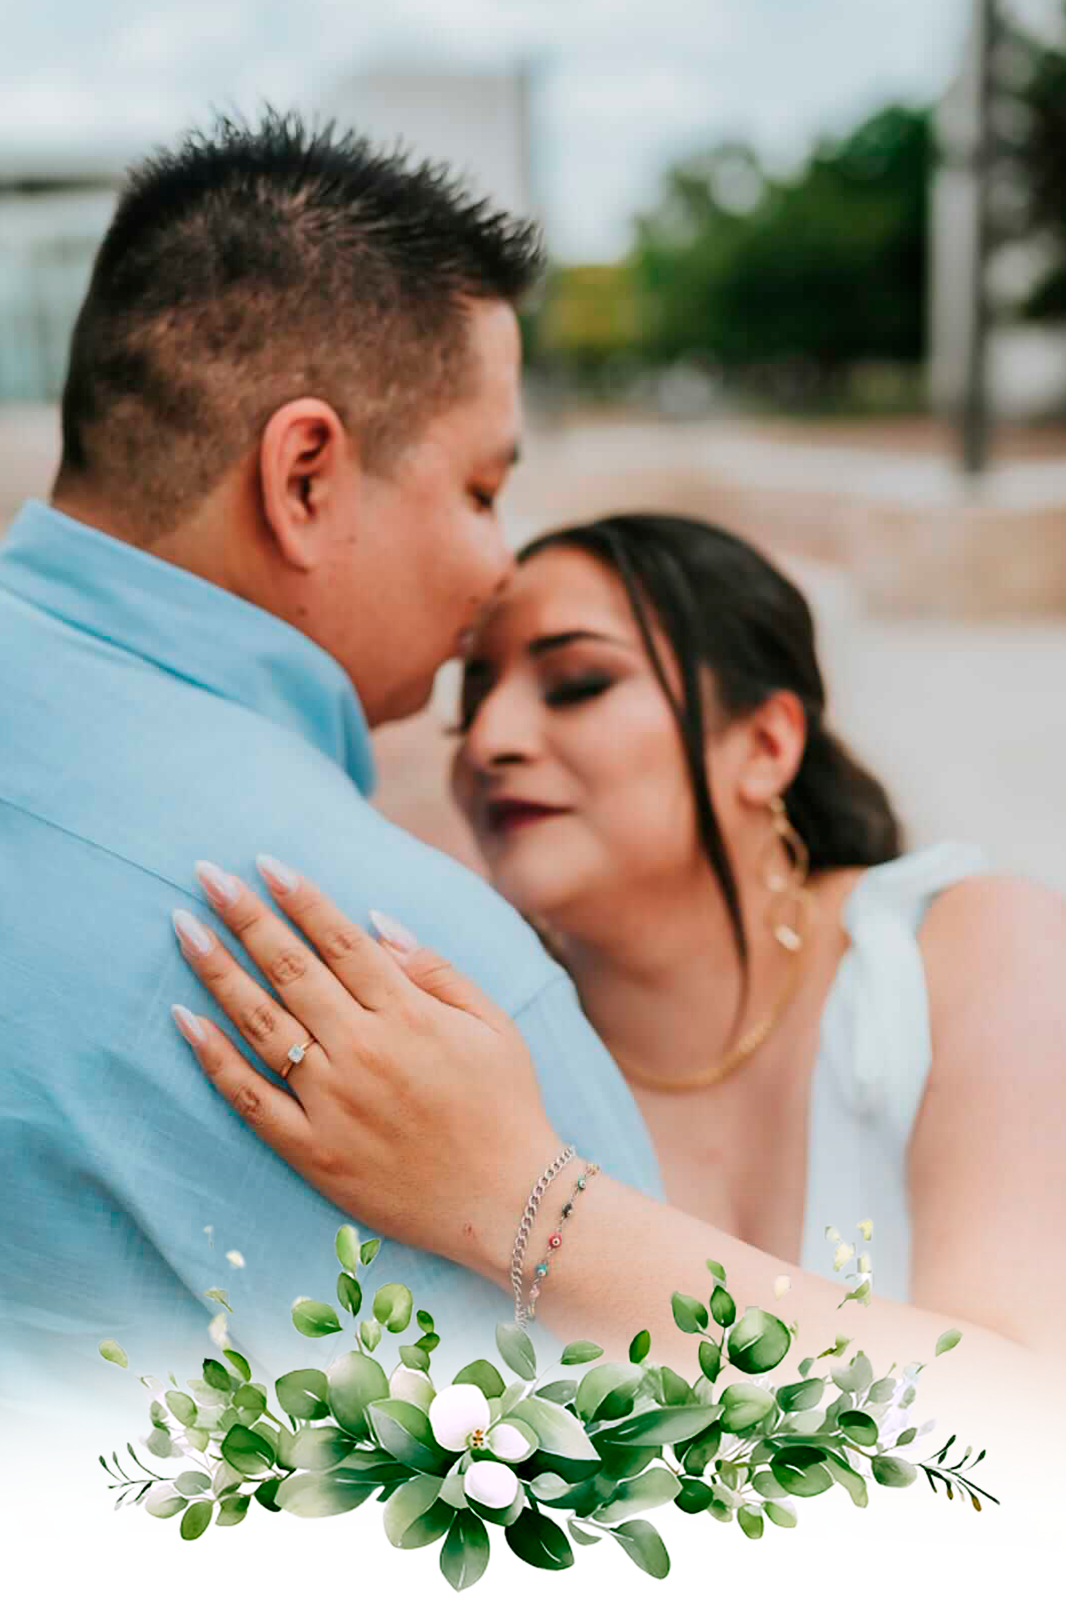
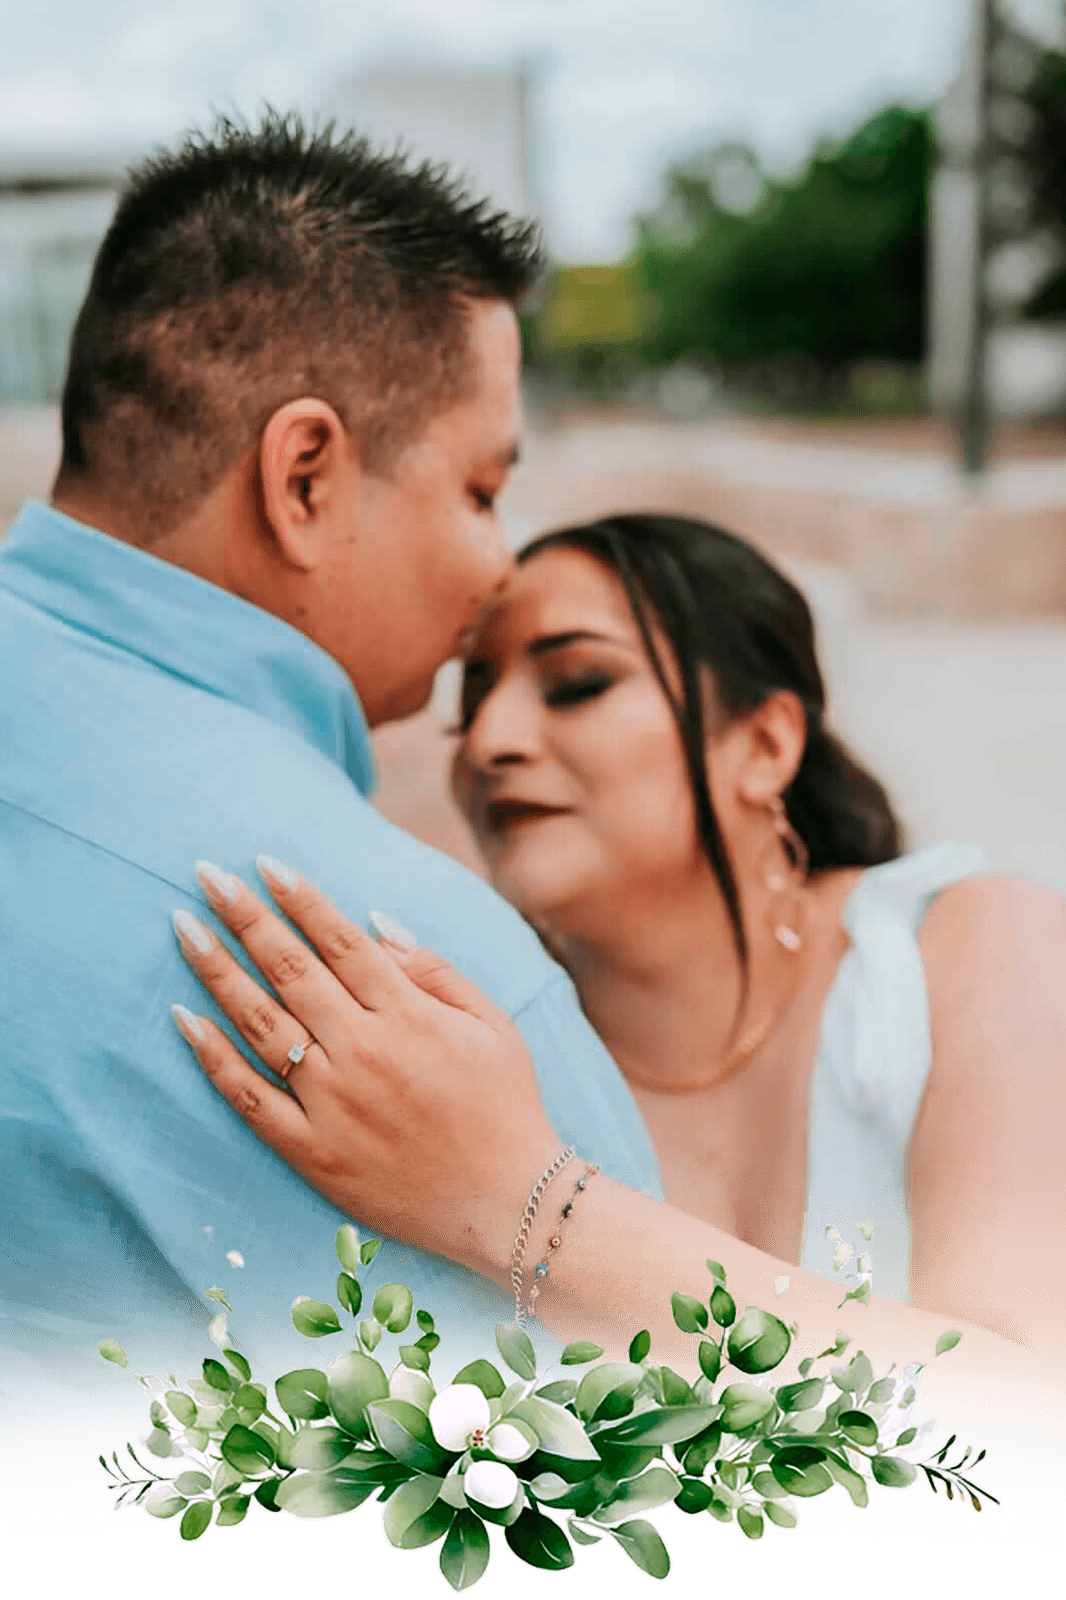
Se añade funcionalidad de eliminar fotos desde el panel privado

diff --git a/src/components/Admin/Admin.jsx b/src/components/Admin/Admin.jsx
@@ -7,6 +7,7 @@ import "./Admin.css";
 function Admin() {
   const [session, setSession] = useState(undefined);
   const [photos, setPhotos] = useState([]);
+  const [approvedPhotos, setApprovedPhotos] = useState([]);
   const [loading, setLoading] = useState(false);
   const [error, setError] = useState("");
   const [images, setImages] = useState({});
@@ -90,6 +91,10 @@ function Admin() {
       updatePhotos.filter((item) => item.id !== foto.id),
     );
 
+    setApprovedPhotos((updatePhotos) =>
+      updatePhotos.filter((item) => item.id !== foto.id),
+    );
+
     setImages((currentPhotos) => {
       const newPhotos = { ...currentPhotos };
       delete newPhotos[foto.id];
@@ -127,15 +132,24 @@ function Admin() {
         .eq("state", "pending")
         .order("created_at", { ascending: false });
 
+      const { data: approvedData, error: approvedError } = await supabase
+        .from("fotos")
+        .select("*")
+        .eq("state", "approved")
+        .order("created_at", { ascending: false });
+
       if (error) {
         console.error(error);
         setError("No se pudieron cargar las fotografías.");
       } else {
         setPhotos(data);
+        setApprovedPhotos(approvedData || []);
 
         const links = {};
 
-        for (const foto of data) {
+        const allPhotos = [...(data || []), ...(approvedData || [])];
+
+        for (const foto of allPhotos) {
           const { data: file, error: errorFile } = await supabase.storage
             .from("photos")
             .createSignedUrl(foto.storage_path, 3600);
@@ -160,7 +174,7 @@ function Admin() {
   }, [session]);
 
   if (session === undefined) {
-    return <p>Comprobando acceso...</p>;
+    return <p className="subtitle">Comprobando acceso...</p>;
   }
 
   if (!session) {
@@ -193,9 +207,11 @@ function Admin() {
 
       <section>
         {photos.length < 1 ? (
-          <p className="no-photos-admin">
-            Por el momento, no hay fotos que aprobar
-          </p>
+          <div className="data-photo-admin">
+            <p className="no-photos-admin">
+              Por el momento, no hay fotos que aprobar
+            </p>
+          </div>
         ) : (
           ""
         )}
@@ -219,7 +235,7 @@ function Admin() {
                 }}
               />
             ) : (
-              <p>Preparando imagen...</p>
+              <p className="subtitle">Preparando imagen...</p>
             )}
             {/* <p>{foto.name_original}</p> */}
             <div className="data-photo-admin">
@@ -267,6 +283,56 @@ function Admin() {
           </article>
         ))}
       </section>
+
+      <section style={{ marginTop: "50px" }}>
+        <h2>Álbum aprobado</h2>
+
+        {approvedPhotos.length === 0 ? (
+          <p className="subtitle">No hay fotografías aprobadas.</p>
+        ) : (
+          approvedPhotos.map((foto) => (
+            <div className="photo-list" key={foto.id}>
+              <div className="img-container center">
+                {images[foto.id] ? (
+                  <img
+                    src={images[foto.id]}
+                    alt={foto.name_original || "Foto del evento"}
+                    className="photo-item"
+                  />
+                ) : (
+                  <p className="subtitle">Preparando imagen...</p>
+                )}
+              </div>
+              <div className="data-list">
+                <p className="data-title">Subido por:</p>
+                <p className="title">{foto.guest}</p>
+                <p className="data-title">Nota:</p>
+                <p className="title">{foto.note}</p>
+
+                <div className="btns-photo-admin-approved">
+                  <button
+                    className="btn-upload-2 "
+                    onClick={() => downloadPhoto(foto)}
+                  >
+                    Descargar
+                  </button>
+
+                  <button
+                    className="btn-upload-2 "
+                    onClick={() => deletePhoto(foto)}
+                  >
+                    Eliminar
+                  </button>
+                </div>
+              </div>
+
+              {/* <p>{foto.name_original}</p> */}
+              {/* <p>Estado: {foto.state}</p> */}
+            </div>
+          ))
+        )}
+      </section>
+
       <QR />
     </main>
   );

diff --git a/src/components/Admin/Admin.css b/src/components/Admin/Admin.css
@@ -25,10 +25,10 @@
   .no-photos-admin {
     width: 75%;
     margin: 0 auto;
-    margin-top: 2rem;
-    font-size: 3rem;
+    font-size: 1rem;
+    padding: 1rem 0;
     color: var(--text-h);
-    font-family: var(--alternative);
+    font-family: var(--sans-serif);
   }
 
   h1 {
@@ -59,5 +59,97 @@
         font-weight: bold;
       }
     }
+  }
+
+  .photo-list {
+    width: 90%;
+    margin: 0 auto;
+    display: flex;
+    flex-direction: row;
+    align-items: center;
+    /* flex-wrap: wrap; */
+
+    .data-list,
+    .img-container {
+      width: 50%;
+      padding: 0.5rem;
+    }
+
+    .img-container {
+      img {
+        width: 100%;
+        border-radius: 8px;
+      }
+    }
+
+    .data-list {
+      display: flex;
+      flex-direction: column;
+      align-items: flex-start;
+      font-family: var(--sans-serif);
+      font-size: 0.8rem;
+
+      .data-title {
+        display: flex;
+        font-weight: bold;
+        margin-bottom: 0.1rem;
+      }
+
+      .title {
+        width: 100%;
+        text-align: left;
+        margin-bottom: 0.5rem;
+      }
+
+      .btns-photo-admin-approved {
+        display: flex;
+      }
+    }
+
+    /* .photo-item-container {
+      display: block;
+      padding: 0;
+      border: none;
+      background: transparent;
+      cursor: pointer;
+      overflow: hidden;
+      border-radius: 10px;
+      position: relative;
+
+      .photo-item {
+        width: 170px;
+        height: 170px;
+        object-fit: cover;
+        border-radius: 10px;
+      }
+
+      .photo-title {
+        width: 100%;
+        height: 30px;
+        position: absolute;
+        bottom: 3px;
+        display: flex;
+        flex-direction: column;
+        justify-content: center;
+        align-items: flex-start;
+        padding-left: 0.7rem;
+        border-bottom-left-radius: 10px;
+        border-bottom-right-radius: 10px;
+        background-image: linear-gradient(
+          180deg,
+          rgba(0, 0, 0, 0) 0%,
+          rgba(0, 0, 0, 0.6) 80%
+        );
+        z-index: 10;
+
+        span {
+          font-size: 0.7rem;
+          color: var(--light);
+          margin-bottom: 3px;
+          text-align: left;
+          font-weight: 300;
+        }
+      }
+    } */
   }
 }

diff --git a/index.html b/index.html
@@ -2,13 +2,40 @@
 <html lang="en">
   <head>
     <meta charset="UTF-8" />
-    <link rel="icon" type="image/svg+xml" href="/favicon.svg" />
+    <link rel="icon" type="image/svg+xml" href="/favicon.png" />
     <meta name="viewport" content="width=device-width, initial-scale=1.0" />
     <link rel="preconnect" href="https://fonts.googleapis.com" />
     <link rel="preconnect" href="https://fonts.gstatic.com" crossorigin />
     <link
       href="https://fonts.googleapis.com/css2?family=Bodoni+Moda:ital,opsz,wght@0,6..96,400..900;1,6..96,400..900&family=Montserrat:ital,wght@0,100..900;1,100..900&family=Parisienne&family=Tangerine:wght@400;700&display=swap"
       rel="stylesheet"
+    />
+    <meta property="og:title" content="Meli & Iván - Nuestro Album de Bodas" />
+    <meta
+      property="og:description"
+      content="Comparte con nosotros tus fotos, en este día tan especial en nuestra vida"
+    />
+    <meta
+      property="og:image"
+      content="https://meli-e-ivan.vercel.app/mini.png"
+    />
+    <meta property="og:url" content="https://meli-e-ivan.vercel.app/" />
+    <meta property="og:type" content="website" />
+    <meta
+      property="og:logo"
+      content="https://meli-e-ivan.vercel.app/mini.png"
+    />
+
+    <meta name="twitter:card" content="summary_large_image" />
+    <meta name="twitter:title" content="Meli & Iván" />
+    <meta
+      name="twitter:description"
+      content="Comparte con nosotros tus fotos, en este día tan especial en nuestra vida"
+    />
+
+    <meta
+      name="twitter:image"
+      content="https://meli-e-ivan.vercel.app/mini.png"
     />
     <title>Mi Album de Fotos</title>
   </head>

diff --git a/src/components/PrivateGallery/PrivateGallery.jsx b/src/components/PrivateGallery/PrivateGallery.jsx
@@ -32,7 +32,7 @@ function PrivateGalery({ evento }) {
   }, [evento.id]);
 
   if (loading) {
-    return <p>Cargando fotografías...</p>;
+    return <p className="subtitle">Cargando fotografías...</p>;
   }
 
   if (error) {
@@ -40,7 +40,7 @@ function PrivateGalery({ evento }) {
   }
 
   if (photos.length === 0) {
-    return <p>No hay fotografías pendientes.</p>;
+    return <p className="subtitle">No hay fotografías pendientes.</p>;
   }
 
   return (

diff --git a/src/components/QR/QR.jsx b/src/components/QR/QR.jsx
@@ -36,7 +36,7 @@ function QR() {
 
     const enlace = document.createElement("a");
     enlace.href = canvas.toDataURL("image/png");
-    enlace.download = `QR-${event.slug}.png`;
+    enlace.download = `QR-${event.slug_text}.png`;
     enlace.click();
   };
 

diff --git a/src/components/Login/Login.css b/src/components/Login/Login.css
@@ -1,12 +1,12 @@
 .login-album-container {
   width: 100dvw;
-  height: 100dvh;
+  max-height: 100dvh;
   font-family: var(--sans-serif);
 
   img {
     width: 50%;
-    margin-top: -5rem;
     margin-bottom: 1rem;
+    position: relative;
   }
 
   h1 {

diff --git a/src/index.css b/src/index.css
@@ -23,6 +23,7 @@
   display: flex;
   flex-direction: column;
   align-items: center;
+  justify-content: center;
   background-image:
     linear-gradient(180deg, #fbfde850 0%, #fbfde850 100%),
     url("./assets/paper-texture.png");

diff --git a/src/components/PublicGallery/PublicGallery.jsx b/src/components/PublicGallery/PublicGallery.jsx
@@ -70,7 +70,7 @@ function PublicGallery({ evento }) {
   }, [photoSelected]);
 
   if (loading) {
-    return <p>Cargando galería...</p>;
+    return <p className="subtitle">Cargando galería...</p>;
   }
 
   if (error) {

diff --git a/src/App.css b/src/App.css
@@ -19,7 +19,7 @@
 
 .btn-upload-2 {
   border: none;
-  padding: 0.5rem;
+  padding: 0.2rem 0.5rem;
   background: linear-gradient(-45deg, #a9b679 0%, #666f44 90%);
   color: var(--accent-bg);
   border-radius: 50px;
